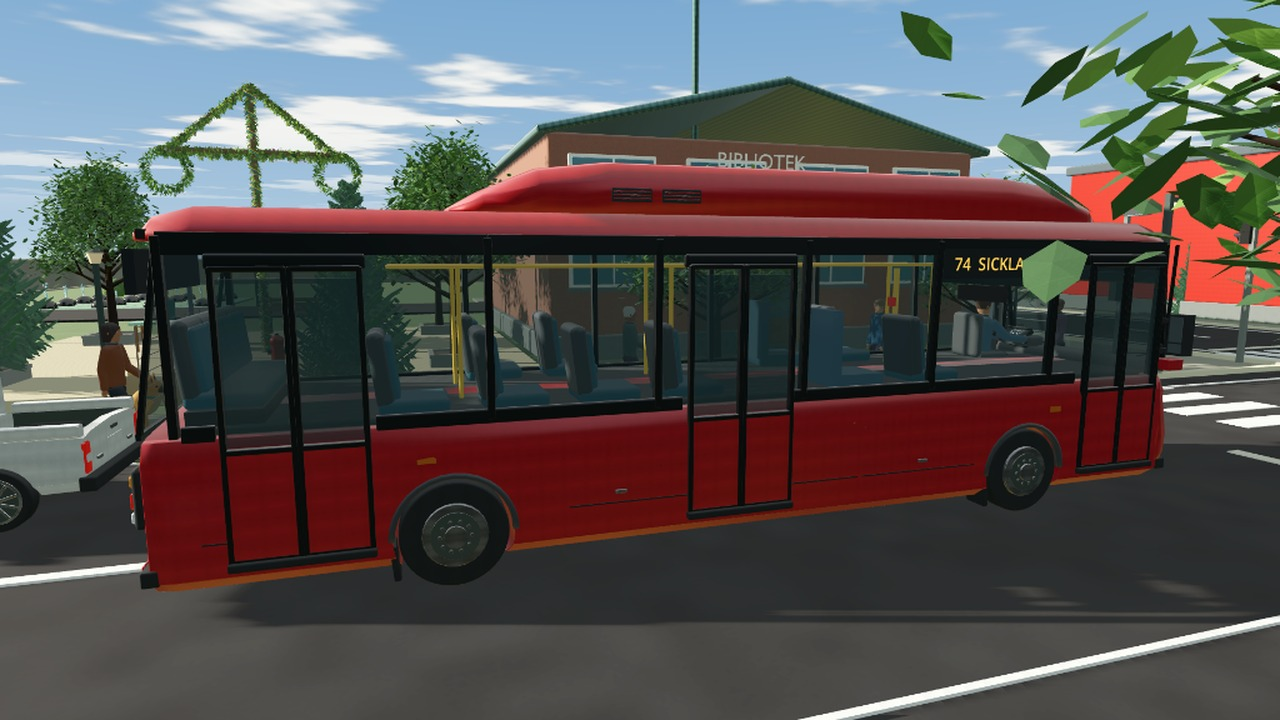
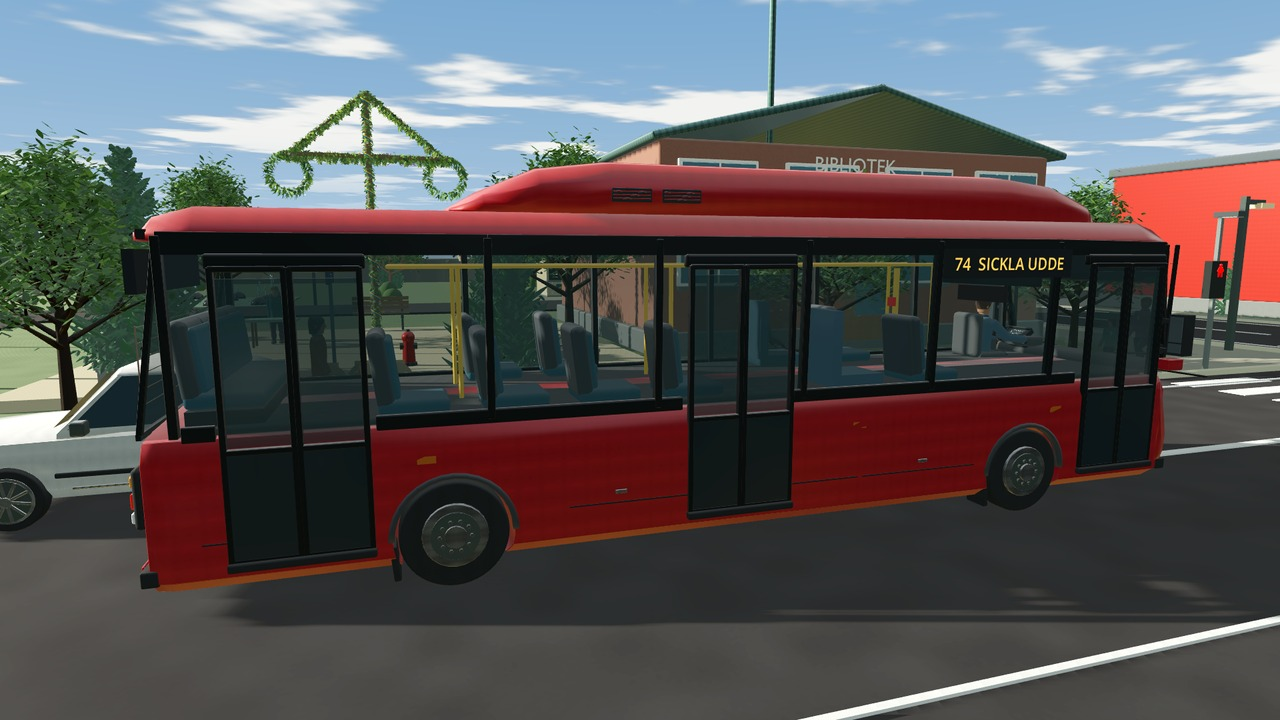
Match the bus door panels to the dark window surrounds

diff --git a/docs/Arbetslista.md b/docs/Arbetslista.md
@@ -144,5 +144,5 @@ Listan innehåller 100 jobb. En tom ruta är öppen. En punkt bockas av när bet
   - På AMD Radeon Graphics (Renoir) med Vulkan Mobile, 1920 × 1080 och V-sync mättes 105 verkliga bildintervall per ljusläge från samma kamera. Simuleringen stegade 0,2 sekunder per steg för att alla tre spelarna skulle hinna kasta under färjans överfart. Dag: median 54,5 ms, 95:e percentil 64,2 ms. Natt: median 60,2 ms, 95:e percentil 67,1 ms.
 - [ ] 100. Spela igenom en leverans från början till slut med musik och trafik igång. Anteckna exakt var en replik blir svår att höra och justera mixen där. Däckskrik, sopbilens kärllyft och färjans ombordstigningssignal går nu genom talstyrd dämpning. Verifierat med testsignal i Godot. Flakbilen har provkörts från torget till bageriet med svensk radio och tio trafikfordon. Lastning, väntan vid rödljus och mottagningskvitto fungerade. Vid torget låg radions toppnivå minst 16 dB under talets vid de uppmätta talproven under vägbeskrivningen. Vid en ny inspelning låg radions topp över talets under ett kort parti ungefär en sekund in i vägbeskrivningen. Radion hålls nu nere genom hela telefonrepliken med upp till 8 dB extra dämpning. En ny provkörning gav mottagningskvitto med den justerade mixen. En lyssningsbedömning återstår. Radions låttitel visas under överkantens högra sida. En lång titel ryms utan överlapp med telefon eller uppdragstext på alla sju språk vid prov med brandbilen. Farten och körhjälpen har separata rader som följer textens höjd. Kontrollerat under det svenska brandbilsuppdraget vid kliniken. Ny inspelning i Godot 4.7 dev5 med tio trafikfordon och aktiv svensk radio gav kvitto på tre mjölsäckar. Under de uppmätta partierna med tal över −30 dB låg radions toppnivå minst 20 dB under den andra telefonreplikens toppnivå. Lokal automatisk transkribering fångade torget, mjölet och kaffekoppen ovanför dörren. Den återgav några ord fel. Manuell lyssningsbedömning återstår. Radion behåller nu den extra dämpningen även genom hela repliker från personer i staden. En svensk glassreplik provades med aktiv radio och motorljud. Reglagets nolläge gav ingen extra dämpning. Radiotestet verifierar dämpningen vid låtbyte mitt i en replik och att låtens ordinarie nivå återställs efteråt. Telefonen spelar tillgängliga inspelningar även när en annan uppdragsrad saknar ljud. Blandade listor, språkbyte och stopp av gammalt tal verifierades i Godot. Telefonen visar uppläsningsknappen när minst en uppdragsrad har ljud på valt språk. Kontrollerat med textuppdrag och blandade uppdragslistor på svenska och tyska. Kvittotestet kontrollerar nu även uppläsningsknappen och val av inspelning på samtliga sju språk. En ny provkörning med svensk radio och tio trafikfordon gav kvitto efter stopp vid bageriet. Lastprovet bekräftade 75 kg extra på flaket och att lasten flyttas till bageriet när kvittot utfärdas. Kvittotestet genomför nu även mjölleveransen och verifierar att ett enda bagerikvitto finns kvar efter omladdning och går att öppna på alla sju språk. I ett spelfönster på 800 × 563 rymdes alla 21 paketkvitton med stor text.
 
-- [ ] Modellera om buss 74 mot Sickla Udde. Rundat tak, vindrutetorkare och strålkastarramar har kontrollerats i spelet. Stålfälgar, stolsrader och gula handräcken har också kontrollerats i Godot. Testet för alla sex hållplatser passerade efter ändringen. Nedre karosspaneler och vänsterstyrd förarplats med instrumentpanel och ratt har lagts till. Den ordinarie förarvyn kontrollerades genom vindrutan vid en korsning. Bakpartiet fick motorlucka, kylgaller och reflexer. Den bakre destinationsskylten granskades i Godot och ruttestet passerade igen. Fronten har fått mörk skyltinfattning och registreringsskylten HBR 074. Kontrollerat i Godot med [SL:s foto av linje 74](https://www.mynewsdesk.com/se/sl/news/bussar-och-daaligt-vaeglag-442788) som visuell referens. Bakljusen har separata orange, röda och vita linser. Backljus och avgångsblinkers verifierades i Godot. Den valda spelaren syns nu vid ratten i bussens yttre vy. Förarens sittställning granskades genom vindrutan. Förarvyn visar nu en digital hastighetsmätare i instrumentpanelen. Stillastående, framåtfart och backning verifierades i ruttestet på alla sju språk. Texten anpassas till displaybredden. Axel och Alma behöll greppet vid styrning åt båda håll och doldes korrekt i förarvyn. Båda vindrutetorkarna sveper vid nederbörd och återgår till viloläget, verifierat i Godot. Bussen har också en destinationsskylt vid framdörren, granskad i Godot. Visuell delbedömning mot SL:s front- och sidofoto: silhuett 74, proportioner 72, färg och material 76, exteriöra detaljer 78. Oviktat medel 75/100. Referensbussen har mjukare front, mer integrerade strålkastare och tydligare dörrparti. Referensen ger för lite insyn för att betygsätta interiören. Efter bedömningen modellerades tre dubbeldörrar med tonat glas och egna karmar. Framdörren flyttades framför framaxeln. Fronten fick välvd panel, nedre luftintag och fyra infattade linser. De två ljuskäglorna följer linsernas positioner. Granskad i Godot med godkänt ruttest. Den upphöjda takkåpan har nu avsmalnande ändar och ventiler. Ny visuell delbedömning mot samma sidoreferens efter dörrar, front och takkåpa: silhuett 84, proportioner 79, färg och material 76, exteriöra detaljer 85. Medel 81/100 vid den bedömningen. Därefter fick karossen dämpad röd lack, mörka fönsterlister och ett längre gummigolv. Färgsättning och golv granskade i Godot och ruttestet passerade. Tre takarmaturer lyser upp kupén när det blir mörkt. Tändning och släckning verifierades i ruttestet och kupén granskades i nattläge. Fordonsmenyn visar den omarbetade bussen som Stadsbuss 74. Menybilden, persontrafikfiltret och äldre bussfavoriter kontrollerades i Godot. Bakdörren flyttades bakom hjulhuset och fordonsbilden uppdaterades efteråt. Ruttestet kontrollerar nu minst sex centimeters frigång längs bussen mellan dörrtrösklar och däck vid fullt styrutslag på 33 grader åt båda håll. Hjulhusen fick modellerade skärmkanter och stänkskydd. Skärmkanterna granskades i Godot både rakt fram och vid fullt rattutslag. Ruttestet passerade. Ruttestet passerade i Godot. Nästa hållplats visas också på instrumentpanelen under bussuppdraget. Förarvyn granskades i Godot och ruttestet verifierade att båda displayerna följer alla sex hållplatser på sju språk. Instrumentdisplayen fick ett infällt skärmhölje med solskärm. Läsbarheten kontrollerades från förarsätet och ruttestet passerade. Förarbussen fick högre spegelhus med huvudglas och nedre vidvinkeldel. De granskades från gatan i Godot och ruttestet passerade. Spegelhusen används även på den parkerade bussen och vid skapande av trafikbussar. Depåbussen granskades i Godot. Sidospeglarna har två stödarmar och fötter på karossen. Granskade i Godot med godkänt ruttest. Samma tonade rutor används för depåbussen, trafikmodellen och den körbara bussen. Kupén granskades genom rutorna på depåbussen i Godot. Linjenummer och destination monteras på depåbussen och trafikmodellen också. Frontskylten granskades i Godot och ruttestet passerade. Strålkastarhusen och linserna flyttades in mot frontpanelen. Fronten granskades i Godot och ruttestet passerade. Ruttestet verifierar också att linser och ljuskäglor följer växlingen mellan dag och natt. Trafikbussens två ljuskäglor sitter också vid de yttre linserna. Placering på skalad modell och dygnsväxling verifierades i Godot. Trafikbussens strålkastarlinser lyser nu samtidigt som ljuskäglorna. Nattläget kontrollerades i Godot. Ruttestet kontrollerar även de skalade trafikbussarnas ljuskäglor och linser i dag- och nattläge. Bakpartiet fick registreringsskylten HBR 074 med blått fält, granskad i spelvyn. Ruttestet passerade. Två vita lampor över bakre registreringsskylten gör den läsbar i nattvyn, granskad i Godot. Skyltbelysningen följer nu dygnscykeln på alla bussmodeller. Tändning och släckning verifierades i ruttestet. Ruttestet verifierar att både depåbussen och trafikmodellen använder samma dygnsstyrda skyltbelysning som spelarens buss. Bakrutan fick sex tunna värmetrådar, granskade i spelvyn. De röda hörnstolparna runt bakrutan ersattes visuellt av smal grafitgrå infattning. Vindruta, sidorutor och dörrar fick enhetliga mörka lister. Front, bakparti och dörrsida granskades i Godot och ruttestet passerade. De sex dörrutorna fick samma toning som sidorutorna och de övre och tvärgående dörrlisterna fick grafitfinish. Dörrsidan granskades i Godot. Fönsterglaset fick en ljusare, svagare toning och ett icke-metalliskt material. Sikten granskades från förarsätet i Godot. Ett mittbromsljus under bakrutan granskades i spelvyn. Ruttestet verifierar att det tänds vid bromsning och släcks när bromsen släpps. Ruttestet kontrollerar även att trafikbussens mittbromsljus tänds vid inbromsning och släcks vid acceleration. Tre orange sidomarkeringsljus på vardera sidan följer dygnscykeln. Dörrsidan kontrollerades i nattvyn och ruttestet passerade. Bakrutans värmetrådar är anslutna till två smala vertikala strömskenor med anslutningar nedtill. Kontrollerat i närbild från spelet och med godkänt ruttest. Två röda positionsljus i takkantens bakre hörn granskades i nattvyn. Ruttestet verifierar att båda tänds på natten och släcks på dagen. Ruttestet kontrollerar också att trafikbussen och depåbussen har samma dygnsstyrda positionsljus. Motorluckan bak har två mörka metallgångjärn ovanför kylgallret. Granskad i närbild från spelet med godkänt ruttest. Kupén har fått en upphöjd bakre bänk med fyra sittplatser i samma klädsel som övriga säten. Granskad genom bakrutan och kontrollerad med ruttestet. Efter de nya referensbilderna fick sidornas fönsterband och de tre dörrpartierna bredare mörka ramar och djupare toning. Sidovyn granskades på asfalt. Vindrutan fick bredare mörka sidoramar och list vid torkarna. Frontskylten fick en mörk panel bakom texten, granskad i Godot med godkänt ruttest. Vattentestet kontrollerar att alla 26 vägfordon stannar före kanalen både framåt och vid backning.
+- [ ] Modellera om buss 74 mot Sickla Udde. Rundat tak, vindrutetorkare och strålkastarramar har kontrollerats i spelet. Stålfälgar, stolsrader och gula handräcken har också kontrollerats i Godot. Testet för alla sex hållplatser passerade efter ändringen. Nedre karosspaneler och vänsterstyrd förarplats med instrumentpanel och ratt har lagts till. Den ordinarie förarvyn kontrollerades genom vindrutan vid en korsning. Bakpartiet fick motorlucka, kylgaller och reflexer. Den bakre destinationsskylten granskades i Godot och ruttestet passerade igen. Fronten har fått mörk skyltinfattning och registreringsskylten HBR 074. Kontrollerat i Godot med [SL:s foto av linje 74](https://www.mynewsdesk.com/se/sl/news/bussar-och-daaligt-vaeglag-442788) som visuell referens. Bakljusen har separata orange, röda och vita linser. Backljus och avgångsblinkers verifierades i Godot. Den valda spelaren syns nu vid ratten i bussens yttre vy. Förarens sittställning granskades genom vindrutan. Förarvyn visar nu en digital hastighetsmätare i instrumentpanelen. Stillastående, framåtfart och backning verifierades i ruttestet på alla sju språk. Texten anpassas till displaybredden. Axel och Alma behöll greppet vid styrning åt båda håll och doldes korrekt i förarvyn. Båda vindrutetorkarna sveper vid nederbörd och återgår till viloläget, verifierat i Godot. Bussen har också en destinationsskylt vid framdörren, granskad i Godot. Visuell delbedömning mot SL:s front- och sidofoto: silhuett 74, proportioner 72, färg och material 76, exteriöra detaljer 78. Oviktat medel 75/100. Referensbussen har mjukare front, mer integrerade strålkastare och tydligare dörrparti. Referensen ger för lite insyn för att betygsätta interiören. Efter bedömningen modellerades tre dubbeldörrar med tonat glas och egna karmar. Framdörren flyttades framför framaxeln. Fronten fick välvd panel, nedre luftintag och fyra infattade linser. De två ljuskäglorna följer linsernas positioner. Granskad i Godot med godkänt ruttest. Den upphöjda takkåpan har nu avsmalnande ändar och ventiler. Ny visuell delbedömning mot samma sidoreferens efter dörrar, front och takkåpa: silhuett 84, proportioner 79, färg och material 76, exteriöra detaljer 85. Medel 81/100 vid den bedömningen. Därefter fick karossen dämpad röd lack, mörka fönsterlister och ett längre gummigolv. Färgsättning och golv granskade i Godot och ruttestet passerade. Tre takarmaturer lyser upp kupén när det blir mörkt. Tändning och släckning verifierades i ruttestet och kupén granskades i nattläge. Fordonsmenyn visar den omarbetade bussen som Stadsbuss 74. Menybilden, persontrafikfiltret och äldre bussfavoriter kontrollerades i Godot. Bakdörren flyttades bakom hjulhuset och fordonsbilden uppdaterades efteråt. Ruttestet kontrollerar nu minst sex centimeters frigång längs bussen mellan dörrtrösklar och däck vid fullt styrutslag på 33 grader åt båda håll. Hjulhusen fick modellerade skärmkanter och stänkskydd. Skärmkanterna granskades i Godot både rakt fram och vid fullt rattutslag. Ruttestet passerade. Ruttestet passerade i Godot. Nästa hållplats visas också på instrumentpanelen under bussuppdraget. Förarvyn granskades i Godot och ruttestet verifierade att båda displayerna följer alla sex hållplatser på sju språk. Instrumentdisplayen fick ett infällt skärmhölje med solskärm. Läsbarheten kontrollerades från förarsätet och ruttestet passerade. Förarbussen fick högre spegelhus med huvudglas och nedre vidvinkeldel. De granskades från gatan i Godot och ruttestet passerade. Spegelhusen används även på den parkerade bussen och vid skapande av trafikbussar. Depåbussen granskades i Godot. Sidospeglarna har två stödarmar och fötter på karossen. Granskade i Godot med godkänt ruttest. Samma tonade rutor används för depåbussen, trafikmodellen och den körbara bussen. Kupén granskades genom rutorna på depåbussen i Godot. Linjenummer och destination monteras på depåbussen och trafikmodellen också. Frontskylten granskades i Godot och ruttestet passerade. Strålkastarhusen och linserna flyttades in mot frontpanelen. Fronten granskades i Godot och ruttestet passerade. Ruttestet verifierar också att linser och ljuskäglor följer växlingen mellan dag och natt. Trafikbussens två ljuskäglor sitter också vid de yttre linserna. Placering på skalad modell och dygnsväxling verifierades i Godot. Trafikbussens strålkastarlinser lyser nu samtidigt som ljuskäglorna. Nattläget kontrollerades i Godot. Ruttestet kontrollerar även de skalade trafikbussarnas ljuskäglor och linser i dag- och nattläge. Bakpartiet fick registreringsskylten HBR 074 med blått fält, granskad i spelvyn. Ruttestet passerade. Två vita lampor över bakre registreringsskylten gör den läsbar i nattvyn, granskad i Godot. Skyltbelysningen följer nu dygnscykeln på alla bussmodeller. Tändning och släckning verifierades i ruttestet. Ruttestet verifierar att både depåbussen och trafikmodellen använder samma dygnsstyrda skyltbelysning som spelarens buss. Bakrutan fick sex tunna värmetrådar, granskade i spelvyn. De röda hörnstolparna runt bakrutan ersattes visuellt av smal grafitgrå infattning. Vindruta, sidorutor och dörrar fick enhetliga mörka lister. Front, bakparti och dörrsida granskades i Godot och ruttestet passerade. De sex dörrutorna fick samma toning som sidorutorna och de övre och tvärgående dörrlisterna fick grafitfinish. Dörrsidan granskades i Godot. Fönsterglaset fick en ljusare, svagare toning och ett icke-metalliskt material. Sikten granskades från förarsätet i Godot. Ett mittbromsljus under bakrutan granskades i spelvyn. Ruttestet verifierar att det tänds vid bromsning och släcks när bromsen släpps. Ruttestet kontrollerar även att trafikbussens mittbromsljus tänds vid inbromsning och släcks vid acceleration. Tre orange sidomarkeringsljus på vardera sidan följer dygnscykeln. Dörrsidan kontrollerades i nattvyn och ruttestet passerade. Bakrutans värmetrådar är anslutna till två smala vertikala strömskenor med anslutningar nedtill. Kontrollerat i närbild från spelet och med godkänt ruttest. Två röda positionsljus i takkantens bakre hörn granskades i nattvyn. Ruttestet verifierar att båda tänds på natten och släcks på dagen. Ruttestet kontrollerar också att trafikbussen och depåbussen har samma dygnsstyrda positionsljus. Motorluckan bak har två mörka metallgångjärn ovanför kylgallret. Granskad i närbild från spelet med godkänt ruttest. Kupén har fått en upphöjd bakre bänk med fyra sittplatser i samma klädsel som övriga säten. Granskad genom bakrutan och kontrollerad med ruttestet. Efter de nya referensbilderna fick sidornas fönsterband och de tre dörrpartierna bredare mörka ramar och djupare toning. Sidovyn granskades på asfalt. Vindrutan fick bredare mörka sidoramar och list vid torkarna. Frontskylten fick en mörk panel bakom texten, granskad i Godot med godkänt ruttest. De sex nedre dörrpanelerna fick grafitgrå finish för att bilda sammanhängande mörka dörrpartier med glaset och ramarna. Sidovyn granskades i Godot och ruttestet passerade. Vattentestet kontrollerar att alla 26 vägfordon stannar före kanalen både framåt och vid backning.
 - [x] Bygg en trafikskola med körskolebil och körövningar för trafikregler. Skolbyggnaden och 20-skylten finns på övningsbanan. Svensk fasadskylt granskad i Godot. Grundläggande körning, återställning och ombordstigning passerade övningsbanans test. Övningskörning startar i en skyltad BMW X5. Skylten kontrollerades i spelet och testades vid urstigning och återgång till staden. Hastighetsövningen ger återkoppling över 20 km/h och godkänner 15 meter framåt inom gränsen. Verifierad i Godot. Stoppliktsövningen kräver fullt stopp vid linjen och ger ett nytt försök efter överkörning. Skylt och linje granskade i Godot. Trafikljusövningen godkänner passage först efter stopp vid rött och passage vid grönt. Avvisad passage vid rött och godkänd passage vid grönt verifierades i Godot. Stadens sex korsningar passerade sina tester. Avklarade delmoment och lektionens resultat sparas per profil. Återupptagning verifierad både före och efter avslutad lektion. Körning runt stopplinjen eller trafikljuset ger ett nytt försök, verifierat för båda momenten. Rutinen för omtag vid stopplinje och trafiksignal verifierades. Föraren måste backa tillräckligt långt för ett nytt försök efter att ha passerat för tidigt. Instruktionen vid omtag ber spelaren att backa tills meddelandet försvinner. Språkkontrollen och övningsbanans test passerade. Övningsbanans test kontrollerar också att omtagsmeddelandet visas efter rödljuskörning och vid backning, och att stoppskyltens instruktion återkommer efter omtaget.
